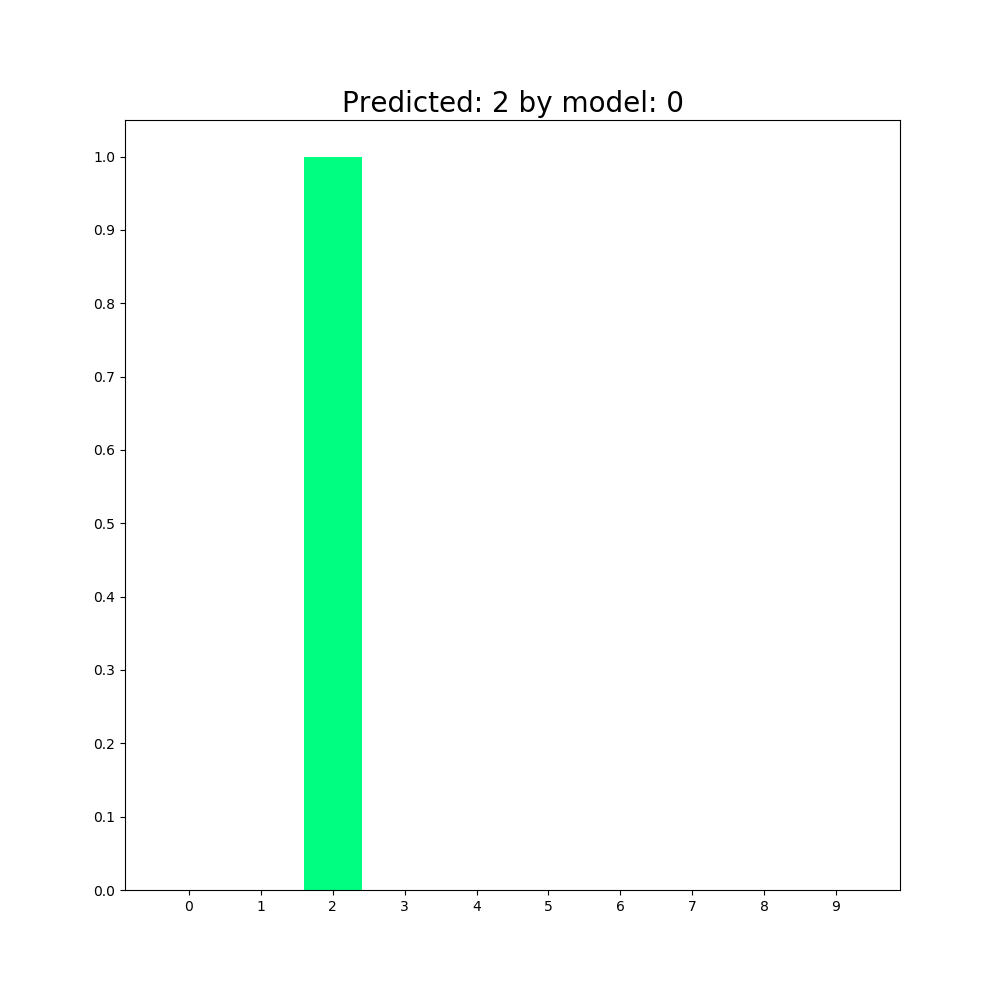
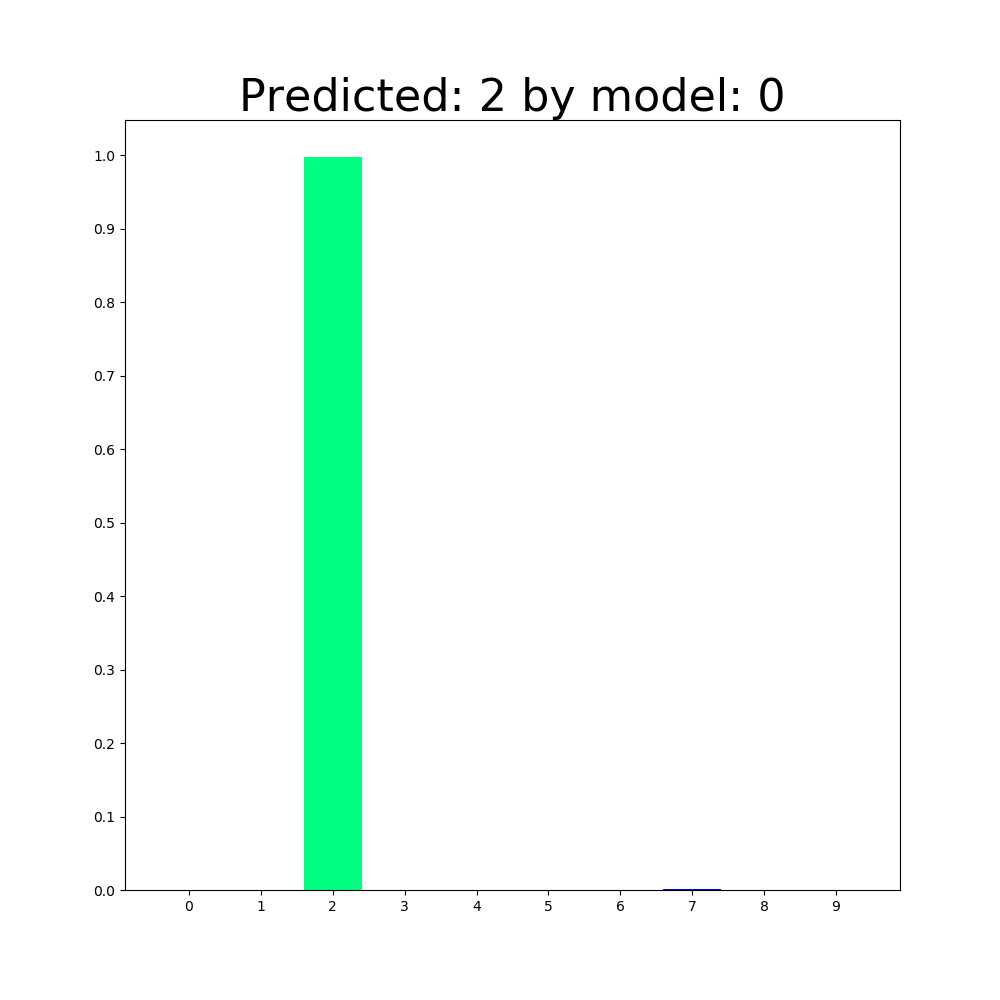
Addition of draft VisEnt glyphs
Presents classification outputs using VisEnt glyphs.

Also added clear all button.

Changed region(s): [[0.248, 0.062, 0.775, 0.124], [0.093, 0.279, 0.124, 0.31], [0.093, 0.217, 0.124, 0.248]]

diff --git a/main.py b/main.py
@@ -10,6 +10,9 @@
 #
 #
 
+#
+# Kivy
+#
 from kivy.app import App
 from kivy.uix.gridlayout import GridLayout
 from kivy.uix.boxlayout import BoxLayout
@@ -22,7 +25,7 @@ from kivy.core.window import Window
 from kivy.graphics import Color, Line
 
 #
-# Tensorflow stuff.
+# Tensorflow and Keras
 #
 import tensorflow as tf
 from keras.models import load_model
@@ -43,7 +46,8 @@ import random
 import os
 from os import listdir 
 import matplotlib.cm as cm
-
+from PIL import Image, ImageFont, ImageDraw
+import shutil
 
 #Disable developer warning messages.
 os.environ['TF_CPP_MIN_LOG_LEVEL'] = '2'
@@ -52,10 +56,10 @@ tf.compat.v1.logging.set_verbosity(tf.compat.v1.logging.ERROR)
 #
 # Zero the image for the graph so it is display blank to start with.
 # 
-import shutil
 shutil.copy("blank.png","classified.png")
 shutil.copy("blank.png","cnnInput.png")
 shutil.copy("blank.png","saliency.png")
+shutil.copy("glyphNoData_crp.png", "currentGlyph.png")
 
 # Dummy call to overcome problems with matplotlib changing the window size on first call
 plt.figure(figsize=(10,10))
@@ -97,6 +101,9 @@ print("Models loaded")
 print("<<<<<<<<<")
 print("")
 
+# Globals for current result: set current prediction to -1
+curr_prd = -1
+curr_conf = 0
 
 class Container(BoxLayout):
     display = ObjectProperty()
@@ -111,13 +118,16 @@ class LabelDraw(Label):
     def on_touch_move(self, touch):
         touch.ud['line'].points += [touch.x, touch.y]
 
-    def clear_canvas(self, obj):
+    def clear_canvas(self):
         self.canvas.clear()
 
-    def save_canvas(self,obj):
+    def save_canvas(self):
      self.export_as_image().save("userDrawn.png", flipped=False)   
 
 class ClrButton(Button):
+    pass
+
+class ClrAllButton(Button):
     pass
 
 class SaveButton(Button):
@@ -201,9 +211,8 @@ class SaliencyButton(Button):
         #grad_eval_by_hand = 1.0-(grad_eval_by_hand - arr_min) / (arr_max - arr_min + K.epsilon())
 
         plt.figure(figsize=(10,10))
-        plt.title('Saliency Map')
-        theTitle = 'Saliency Map, predicts: '+str(prediction.argmax())+ ' by model: ' + str(glb_indx)
-        plt.title(theTitle,fontsize=20 )
+        theTitle = 'Saliency predicts: '+str(prediction.argmax())+ ' by model: ' + str(glb_indx)
+        plt.title(theTitle,fontsize=32 )
         plt.imshow(grad_eval_by_hand,cmap="coolwarm",alpha=0.8)
         plt.savefig('saliency.png')
         plt.close("all")
@@ -232,15 +241,49 @@ class ClassifyButton(Button):
         self.model = global_model[glb_indx]
         print( "Classify model index is now: " + str(glb_indx) )
 
+    def generateGlyph( self ):
+        global curr_prd
+        global curr_conf
+        if (curr_prd == -1 ):
+            shutil.copy("glyphNoData_crp.png","currentGlyph.png")
+        else:
+            stemName = ['G','F','E','D','C','B','A']
+            # offset confidence so 0.3 is lowest then in steps of 0.1 upwards
+            if curr_conf < 0.3:
+                nameIndx = 0
+            else:
+                nameIndx = int(10.0*(curr_conf-0.3))
+            nameIndx = np.clip(nameIndx,0, 6)
+            filename = '.\\VisEntGlyphs\\' + stemName[nameIndx] + '_crp.png'
+            source_img = Image.open(filename).convert("RGBA")
+            draw = ImageDraw.Draw(source_img)
+            font = ImageFont.truetype("arial.ttf", 120)
+            num = str(curr_prd)
+            xD,yD=draw.textsize(num, font=font)
+            draw.text((130-(xD/2),130-(yD/2)), num, fill=(255,255,255,255), font=font )
+            source_img.save("currentGlyph.png")
+
+    def clear_classify(self):
+        global curr_prd
+        global curr_conf
+        shutil.copy("blank.png","classified.png")
+        shutil.copy("glyphNoData_crp.png", "currentGlyph.png")
+        shutil.copy("blank.png","cnnInput.png")
+        shutil.copy("blank.png","saliency.png")
+        curr_prd = -1
+        curr_conf = 0
+
     def classify_image(self):
         global glb_indx
+        global curr_prd
+        global curr_conf
 
         Custom_image_dir = './'
         Custom_image = "userDrawn.png"
         img = image.load_img('%s/%s' %(Custom_image_dir, Custom_image),  target_size=(28, 28), color_mode="grayscale")
 
         plt.figure(figsize=(10,10))
-        plt.title('Actual input to CNN',fontsize=20)
+        plt.title('Image as input to CNN',fontsize=32)
         plt.imshow(img,cmap=cm.gray, vmin=0, vmax=255)
         plt.savefig('cnnInput.png')
         plt.close("all")
@@ -254,12 +297,15 @@ class ClassifyButton(Button):
         prediction = self.model.predict(img_data)
         print( "The prediction is: " + str(prediction.argmax()) + " by model: " +str(glb_indx))
 
+        curr_prd = prediction.argmax()
+        curr_conf = prediction[0][curr_prd]
+        print( curr_prd, curr_conf,prediction[0])
         plt.figure(figsize=(10,10))
         index = np.arange(10)
         my_cmap = cm.get_cmap('winter')
         plt.bar(index, prediction[0],color=my_cmap(prediction[0]))
         theTitle = 'Predicted: ' + str(np.argmax(prediction[0])) + ' by model: ' +str(glb_indx)
-        plt.title(theTitle,fontsize=20 )
+        plt.title(theTitle,fontsize=32 )
         plt.xticks(index)
         plt.yticks(np.arange(0, 1.1, step = 0.1))
         #plt.show(block=False)

diff --git a/VisEntGlyphs/PillowCreateGlyph.py b/VisEntGlyphs/PillowCreateGlyph.py
@@ -1,0 +1,14 @@
+from PIL import Image, ImageFont, ImageDraw
+
+filename = ".\VisEntGlyphs\A_crp.png"
+
+source_img = Image.open(filename).convert("RGBA")
+
+draw = ImageDraw.Draw(source_img)
+font = ImageFont.truetype("arial.ttf", 80)
+num = "2"
+xD,yD=draw.textsize(num, font=font)
+draw.text((130-(xD/2),130-(yD/2)), num, fill=(255,255,255,255), font=font )
+
+
+source_img.save(".\VisEntGlyphs\currentGlyph.png")
